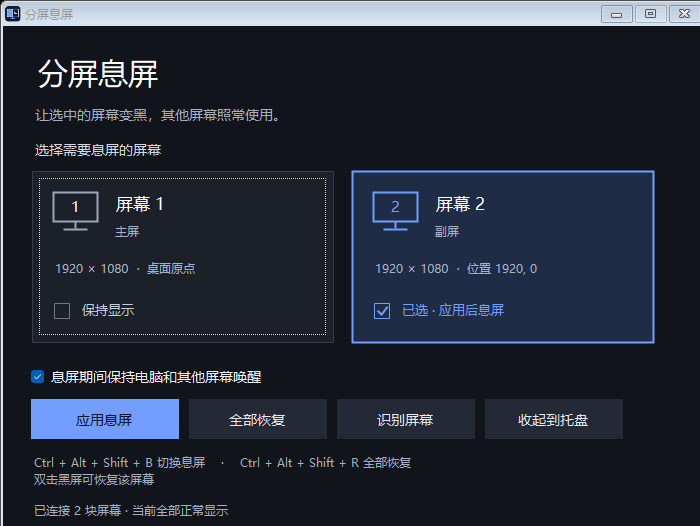
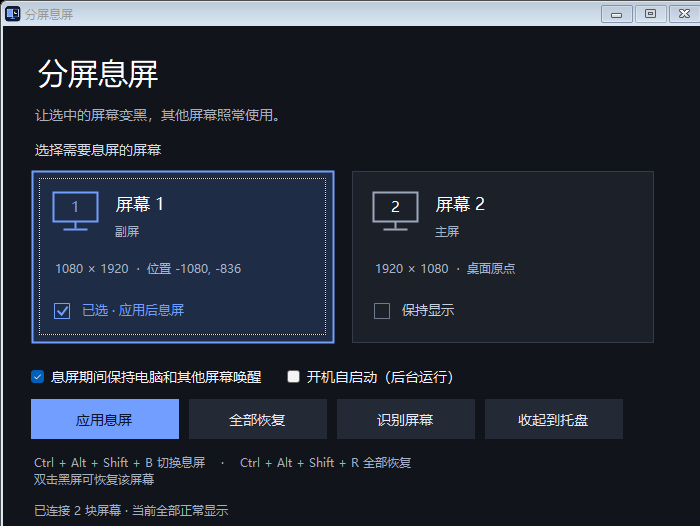
Add optional Windows login startup in the background

Changed region(s): [[0.03, 0.3042, 0.96, 0.6692], [0.39, 0.6996, 0.66, 0.73]]

diff --git a/ScreenDimmer.cs b/ScreenDimmer.cs
@@ -10,8 +10,8 @@ using Microsoft.Win32;
 
 [assembly: System.Reflection.AssemblyTitle("分屏息屏")]
 [assembly: System.Reflection.AssemblyDescription("Screen blackout controls for individual Windows monitors")]
-[assembly: System.Reflection.AssemblyVersion("1.1.0.0")]
-[assembly: System.Reflection.AssemblyFileVersion("1.1.0.0")]
+[assembly: System.Reflection.AssemblyVersion("1.2.0.0")]
+[assembly: System.Reflection.AssemblyFileVersion("1.2.0.0")]
 
 namespace ScreenDimmer
 {
@@ -35,19 +35,52 @@ namespace ScreenDimmer
     internal static class Program
     {
         [STAThread]
-        private static void Main()
+        private static void Main(string[] args)
         {
+            bool background = args.Any(arg => string.Equals(arg, "--background", StringComparison.OrdinalIgnoreCase));
             bool created;
             using (var instance = new Mutex(true, @"Local\ScreenDimmer.Desktop", out created))
             {
                 if (!created)
                 {
-                    Native.PostMessage(new IntPtr(0xffff), Native.ShowMessage, IntPtr.Zero, IntPtr.Zero);
+                    if (!background)
+                        Native.PostMessage(new IntPtr(0xffff), Native.ShowMessage, IntPtr.Zero, IntPtr.Zero);
                     return;
                 }
                 Application.EnableVisualStyles();
                 Application.SetCompatibleTextRenderingDefault(false);
-                Application.Run(new ControlWindow());
+                using (var window = new ControlWindow())
+                using (var context = new ApplicationContext())
+                {
+                    window.FormClosed += delegate { context.ExitThread(); };
+                    if (!background) window.Show();
+                    Application.Run(context);
+                }
+            }
+        }
+    }
+
+    internal static class StartupSettings
+    {
+        internal const string RunKey = @"Software\Microsoft\Windows\CurrentVersion\Run";
+        internal const string ValueName = "ScreenDimmer";
+        internal static string CommandLine { get { return "\"" + Application.ExecutablePath + "\" --background"; } }
+
+        internal static bool IsEnabled
+        {
+            get
+            {
+                using (var key = Registry.CurrentUser.OpenSubKey(RunKey))
+                    return key != null && string.Equals(key.GetValue(ValueName) as string, CommandLine, StringComparison.OrdinalIgnoreCase);
+            }
+        }
+
+        internal static void SetEnabled(bool enabled)
+        {
+            using (var key = Registry.CurrentUser.CreateSubKey(RunKey))
+            {
+                if (enabled) key.SetValue(ValueName, CommandLine, RegistryValueKind.String);
+                else key.DeleteValue(ValueName, false);
             }
         }
     }
@@ -230,6 +263,10 @@ namespace ScreenDimmer
             keepAwake = new CheckBox { Text = "息屏期间保持电脑和其他屏幕唤醒", AutoSize = true, Checked = true, Margin = new Padding(0, 8, 0, 0) };
             keepAwake.CheckedChanged += delegate { UpdateWakeState(); };
             options.Controls.Add(keepAwake);
+            var startWithWindows = new CheckBox { Text = "开机自启动（后台运行）", AutoSize = true,
+                Checked = StartupSettings.IsEnabled, Margin = new Padding(18, 8, 0, 0) };
+            startWithWindows.CheckedChanged += delegate { StartupSettings.SetEnabled(startWithWindows.Checked); };
+            options.Controls.Add(startWithWindows);
             layout.Controls.Add(options, 0, 4);
 
             var actions = new FlowLayoutPanel { Dock = DockStyle.Fill, Margin = new Padding(0) };
@@ -260,6 +297,7 @@ namespace ScreenDimmer
             LoadScreens();
             SystemEvents.DisplaySettingsChanged += DisplayChanged;
             SystemEvents.SessionSwitch += SessionChanged;
+            RegisterShortcuts();
         }
 
         private static Label Label(string text, float size, Color color)
@@ -279,9 +317,8 @@ namespace ScreenDimmer
             return button;
         }
 
-        protected override void OnLoad(EventArgs e)
+        private void RegisterShortcuts()
         {
-            base.OnLoad(e);
             toggleKey = Native.RegisterHotKey(Handle, 1, 0x4007, (uint)Keys.B);
             restoreKey = Native.RegisterHotKey(Handle, 2, 0x4007, (uint)Keys.R);
             shortcuts.Text = (toggleKey ? "Ctrl + Alt + Shift + B 切换息屏" : "切换快捷键未能注册") + "    ·    " +

diff --git a/README.md b/README.md
@@ -29,6 +29,10 @@
 
 关闭窗口或最小化后，程序收起到托盘并继续在后台运行，息屏和全局快捷键保持生效。双击托盘图标重新打开控制面板。彻底退出时，右键托盘图标选择「退出」，所有屏幕恢复显示。
 
+勾选控制面板中的「开机自启动（后台运行）」后，每次登录 Windows 时自动启动到托盘。取消勾选即可关闭。自启动时保留所有屏幕的正常显示，通过快捷键或托盘菜单开始息屏。
+
+也可手动运行 `ScreenDimmer.exe --background` 直接启动到托盘。
+
 ## 功能
 
 - 分别选择主屏、副屏或多块屏幕。
@@ -36,6 +40,7 @@
 - 在可用屏幕上显示控制面板；全部息屏时收起控制面板。
 - 全局快捷键与托盘菜单，关闭窗口或最小化后继续后台运行。
 - 程序、窗口和托盘使用统一的多尺寸图标。
+- 支持当前用户开机自启动，登录后直接在托盘后台运行。
 - 可在息屏期间临时保持电脑和其他屏幕唤醒。
 - 锁定电脑、插拔显示器或更改显示布局时移除遮罩。
 - 重复启动打开已有控制面板。
@@ -68,7 +73,7 @@ New-Item -ItemType Directory -Path .\dist -Force
 
 ## 已验证
 
-在本地双屏 Windows 环境下，已验证主屏、副屏和双屏遮罩、目标屏幕覆盖范围、纯黑显示、全局快捷键切换与恢复、控制面板移到可用屏幕、关闭窗口后后台运行，以及退出后清除遮罩。GitHub Actions 验证构建；显示器交互需要在 Windows 桌面环境中验证。
+在本地双屏 Windows 环境下，已验证主屏、副屏和双屏遮罩、目标屏幕覆盖范围、纯黑显示、全局快捷键切换与恢复、控制面板移到可用屏幕、关闭窗口后后台运行，以及退出后清除遮罩。自启动设置已验证启用、持久化与取消，后台启动及重复后台启动也已验证。GitHub Actions 验证构建；显示器交互需要在 Windows 桌面环境中验证。
 
 ## 限制
 
@@ -76,6 +81,7 @@ New-Item -ItemType Directory -Path .\dist -Force
 - 系统锁屏、安全桌面、部分独占全屏应用和其他置顶窗口可能覆盖遮罩。
 - 手动锁屏或休眠仍遵循 Windows 行为；屏幕编号按桌面位置排列，可能与 Windows 设置中的编号不同。
 - 全局快捷键若被其他程序占用，控制面板会显示注册失败，可使用按钮、托盘菜单或双击黑色区域恢复。
+- 开机自启动使用当前用户的 Windows 登录启动项；更换程序文件位置后，请重新启用该选项。
 
 ## 开源协议
 

diff --git a/RELEASE_NOTES.md b/RELEASE_NOTES.md
@@ -1,11 +1,11 @@
-## 分屏息屏 1.1.0
+## 分屏息屏 1.2.0
 
 选择需要变黑的显示器，保持其他显示器正常使用。
 
-- 采用 MIT 开源协议，下载包附带 `LICENSE`。
-- 程序、控制面板和托盘使用统一的多尺寸图标。
-- 关闭窗口或最小化后收起到托盘，程序继续后台运行，息屏和快捷键保持生效。
-- 双击托盘图标重新打开；右键托盘图标选择「退出」后恢复全部屏幕并结束程序。
+- 控制面板增加「开机自启动（后台运行）」开关，适用于当前 Windows 用户。
+- 登录 Windows 后自动启动到托盘，保留所有屏幕的正常显示，息屏和恢复快捷键直接可用。
+- 支持 `ScreenDimmer.exe --background` 手动后台启动。
+- 双击程序或托盘图标可打开现有面板，重复后台启动保持在托盘运行。
 
 下载 `ScreenDimmer.exe` 直接运行，或下载附带使用说明的 `ScreenDimmer-windows.zip`。适用于 64 位 Windows 10 / 11，依赖系统中的 .NET Framework 4.x。
 

diff --git a/使用说明.md b/使用说明.md
@@ -14,6 +14,10 @@
 
 需要彻底退出时，右键托盘图标选择「退出」，所有屏幕恢复显示。
 
+勾选「开机自启动（后台运行）」后，登录 Windows 时自动启动到托盘。自启动时所有屏幕正常显示，息屏与恢复快捷键可直接使用。取消勾选即可关闭自启动；更换程序文件位置后，请重新启用该选项。该设置仅影响当前 Windows 用户，无需管理员权限。
+
+运行 `ScreenDimmer.exe --background` 也可直接启动到托盘。
+
 「息屏期间保持电脑和其他屏幕唤醒」默认勾选，只在存在黑色遮罩时生效；全部恢复或退出后遵循原有电源设置。锁定电脑、插拔屏幕或更改显示布局后，遮罩自动移除。
 
 ## 限制
